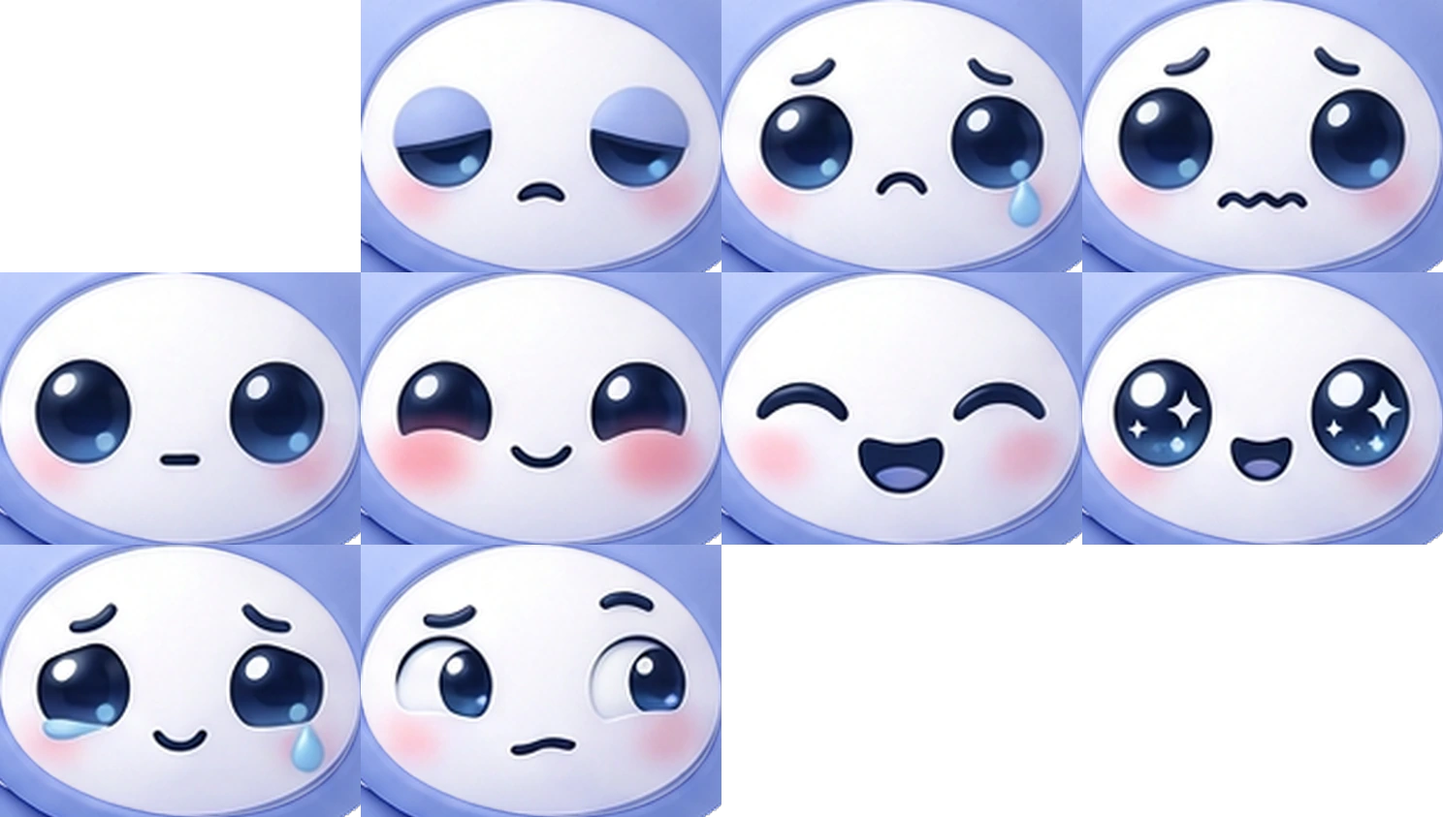
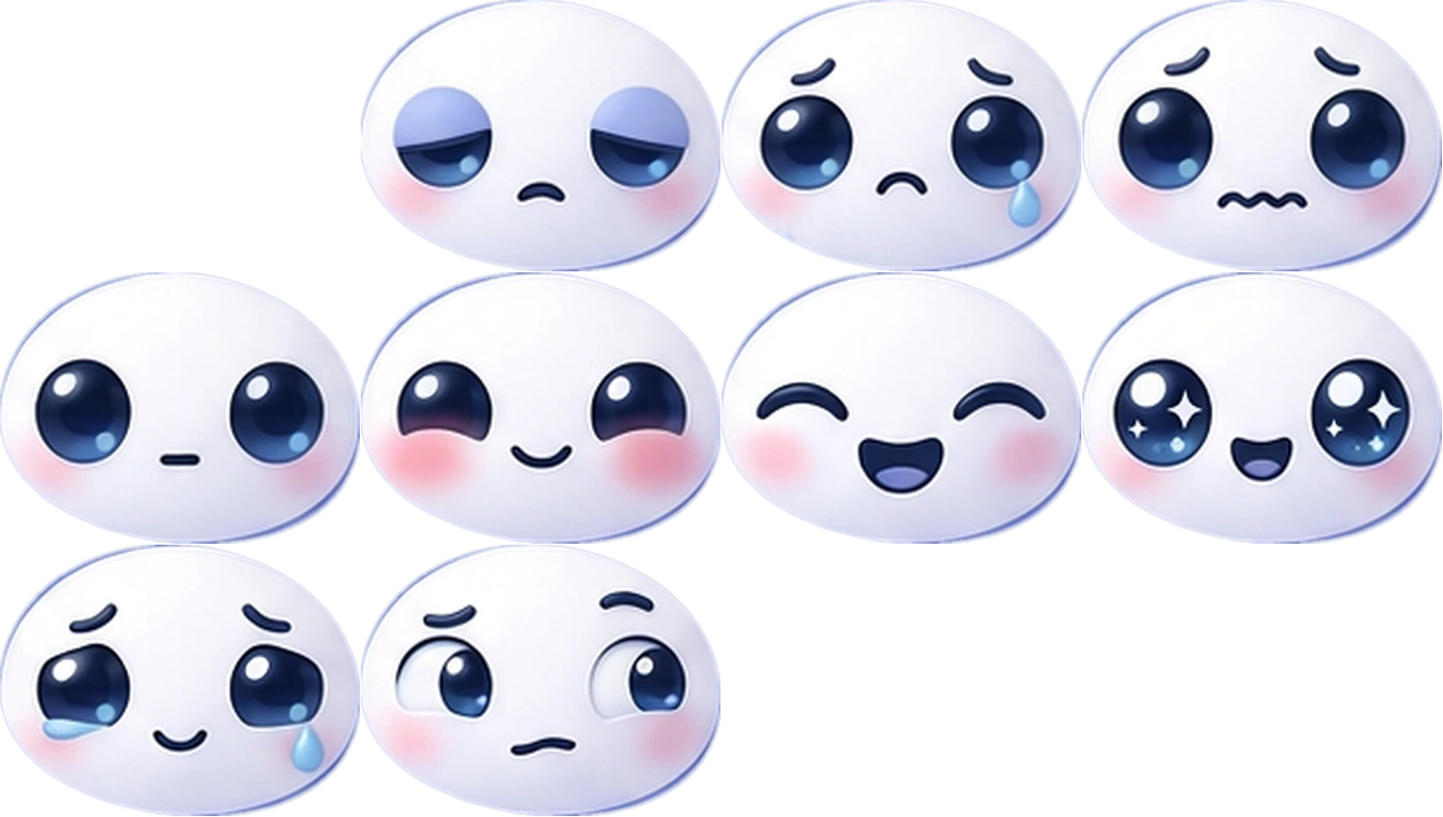
oval face cut + custom Опора notes + chat alternative replies
- hero face: bake elliptical alpha in build-mascot-moods.py, CSS ellipse clip so face never leaks outside hood
- Опора block (affirm/crisis): add practice_notes textarea for own variant, persisted locally, wired to chat context
- chat: expand hints to 6, add TIPS, make chatReply return 2-3 alternative answers per intent (randomized)

diff --git a/app/js/app.js b/app/js/app.js
@@ -85,6 +85,7 @@ const defaultState = {
   mood_entries: [],
   tasks: {},
   picked: {},                // примеры из практик, которые человек отметил своими: "practiceId:extrasKey" → [тексты]
+  practice_notes: {},        // v28: свой вариант ответа для практик Опоры (affirm, crisis) — текст, который держит
   game: {
     total_points: 0,
     alt_count: 0,
@@ -102,6 +103,7 @@ const state = Object.assign({}, defaultState, persisted, {
   mood_entries: Array.isArray(persisted.mood_entries) ? persisted.mood_entries : defaultState.mood_entries,
   tasks: Object.assign({}, defaultState.tasks, persisted.tasks || {}),
   picked: Object.assign({}, defaultState.picked, persisted.picked || {}),
+  practice_notes: Object.assign({}, defaultState.practice_notes, persisted.practice_notes || {}),
   game: Object.assign({}, defaultState.game, persisted.game || {}, {
     scales: Object.assign({}, defaultState.game.scales, persisted.game?.scales || {}),
     badges: Object.assign({}, defaultState.game.badges, persisted.game?.badges || {})
@@ -1148,6 +1150,40 @@ function screenPractice(id) {
   scr.append(el('ol', { class: 'steps' }, p.steps.map(s => el('li', {}, s))));
   // примеры из p.extras — сразу под шагами: шаги на них ссылаются («примеры ниже»)
   for (const card of practiceExamples(p)) scr.append(card);
+  // v28 · блок «Опора»: где нужно вписать фразу-опору или антикризисный план,
+  // даём поле для своего варианта ответа (сохраняется локально, только у тебя).
+  if (p.id === 'affirm' || p.id === 'crisis') {
+    const isAffirm = p.id === 'affirm';
+    const noteKey = p.id;
+    const title = isAffirm ? 'Своя фраза — как хочется именно тебе' : 'Свой план — своими словами';
+    const hint = isAffirm
+      ? 'Можно взять фразу из примеров выше или придумать свою. Сохранится только у тебя — можно поставить на заставку или сказать себе в трудный момент.'
+      : 'Заполни своими словами — этот текст останется у тебя. Можно коротко, как заметка себе в будущее.';
+    const placeholder = isAffirm
+      ? 'Моя фраза-опора — напиши своими словами, например: «Я справляюсь, шаг за шагом»'
+      : 'Мои ранние признаки шторма:\n· \n\nЧто помогает мне самому(ой) — 3 вещи:\n· \n\nК кому обратиться (имя, как связаться) и фраза-ключ «мне плохо, побудь рядом»:\n· \n\nЧто важно услышать / чего не говорить:\n· \n\nГде лежит план, кроме телефона:\n· ';
+    const ta = el('textarea', {
+      class: isAffirm ? 'mood-note-input' : 'task-input',
+      rows: isAffirm ? 3 : 7,
+      maxlength: isAffirm ? 200 : 1200,
+      placeholder,
+      'aria-label': title,
+      id: `practice-note-${p.id}`
+    });
+    ta.value = state.practice_notes[noteKey] || '';
+    const status = el('p', { class: 'mins', id: `practice-note-status-${p.id}` }, state.practice_notes[noteKey] ? 'Сохранено у тебя на устройстве. Можно менять когда угодно.' : 'Свой вариант не обязателен — заполни, если откликается.');
+    const saveBtn = el('button', { class: 'btn', style: 'margin-top:12px' }, state.practice_notes[noteKey] ? 'Сохранить изменения' : 'Сохранить свой вариант');
+    const clearBtn = el('button', { class: 'btn ghost', style: 'margin-top:8px' }, 'Очистить');
+    saveBtn.addEventListener('click', () => {
+      const text = ta.value.trim();
+      state.practice_notes[noteKey] = text;
+      try { save(); haptic('success'); toast(text ? 'Сохранено — твой вариант на месте.' : 'Очищено.'); status.textContent = text ? 'Сохранено у тебя на устройстве. Можно менять когда угодно.' : 'Свой вариант очищен.'; saveBtn.textContent = text ? 'Сохранить изменения' : 'Сохранить свой вариант'; } catch (e) { toast('Не получилось сохранить — проверь память.'); }
+    });
+    clearBtn.addEventListener('click', () => { ta.value = ''; ta.focus(); haptic('light'); status.textContent = 'Сотри и нажми «Сохранить», чтобы очистить.'; });
+    const card = el('div', { class: 'card soft', style: 'border-style:dashed' });
+    card.append(el('p', { class: 'cap' }, title), el('p', { class: 'mins', style: 'margin:0 0 8px' }, hint), ta, status, saveBtn, clearBtn);
+    scr.append(card);
+  }
   scr.append(el('p', { class: 'mins' }, `≈ ${p.minutes} мин · за практику даются очки и рост шкал`));
 
   const altBox = el('div', { class: 'hidden' });
@@ -1211,13 +1247,16 @@ function markDone(p, isAlt) {
 }
 
 /* ---------- чат поддержки ---------- */
-const CHAT_HINTS = ['Мне тяжело', 'Мне тревожно', 'Напомни, кто я', 'Дай совет на сейчас'];
+const CHAT_HINTS = ['Мне тяжело', 'Мне тревожно', 'Напомни, кто я', 'Дай совет на сейчас', 'Хочу паузу', 'Побудь рядом'];
 const CHAT_TIPS = [
   { text: 'Вдох на 4, выдох на 6. Три раза. Длинный выдох говорит телу: можно расслабиться.' },
   { text: 'Назови пять вещей, которые видишь, четыре — которые слышишь, три — которые чувствуешь кожей. Это заземление.' },
   { text: 'Одна маленькая задача на ближайшие пять минут. Не «разобраться со всем», а одно действие.' },
   { text: 'Холодная вода на запястья или лицо — быстрый способ вернуть тело в «здесь».' },
-  { text: 'Если можно — приглуши свет и звук на пару минут. Меньше входящего — легче внутри.' }
+  { text: 'Если можно — приглуши свет и звук на пару минут. Меньше входящего — легче внутри.' },
+  { text: 'Сожми кулаки на 5 секунд, отпусти. Повтори 3 раза — тело отпускает напряжение вместе с руками.' },
+  { text: 'Поставь таймер на 3 минуты и просто наблюдай за дыханием. Не меняй его, просто замечай.' },
+  { text: 'Напиши на бумаге 3 вещи, которые уже сделал(а) сегодня. Даже маленькие — они считаются.' }
 ];
 const clipText = (s, n = 200) => { s = String(s).replace(/\s+/g, ' ').trim(); return s.length > n ? s.slice(0, n - 1) + '…' : s; };
 
@@ -1232,12 +1271,17 @@ function buildChatContext() {
     title: t.title, emoji: t.emoji, text: (state.tasks[t.id].text || '').trim()
   }));
   const byId = (id) => (state.tasks[id] && state.tasks[id].text || '').trim();
+  // v28: антикризисный план и фраза-опора могут жить в практике «Опора» как свой вариант
+  const crisisPractice = (state.practice_notes?.crisis || '').trim();
+  const affirmPractice = (state.practice_notes?.affirm || '').trim();
+  const crisisFromTask = byId('crisis_plan');
+  const affirmFromTask = byId('anchors');  // якорей может не быть, используем фразу-опору как дополнение
   const last = moodEntries()[0];
   const lvl = levelInfo();
   return {
     name: TG_MODE ? tg.initDataUnsafe.user.first_name : state.web_user?.name || null,
     mastered, filled,
-    whoami: byId('who_am_i'), anchors: byId('anchors'), crisis: byId('crisis_plan'),
+    whoami: byId('who_am_i'), anchors: affirmPractice || byId('anchors'), crisis: crisisFromTask || crisisPractice,
     streak: streakCount(), level: lvl.level,
     moodNow: last ? MOODS[last.value] : null,
     moodCount: moodEntriesCount()
@@ -1248,6 +1292,7 @@ function chatReply(text) {
   const ctx = buildChatContext();
   const t = (text || '').toLowerCase();
   const has = (...words) => words.some(w => t.includes(w));
+  const rnd = (arr) => arr[Math.floor(Math.random() * arr.length)];
   const name = ctx.name ? `, ${ctx.name}` : '';
   let reply;
   if (has('кто я', 'напомни', 'какой я', 'какая я', 'забыл', 'забыла', 'потерял', 'потеряла', 'кто ты')) {
@@ -1256,24 +1301,71 @@ function chatReply(text) {
       if (ctx.whoami) parts.push(`Ты писал(а) о себе: «${clipText(ctx.whoami)}»`);
       if (ctx.anchors) parts.push(`Твои якоря: «${clipText(ctx.anchors)}»`);
       if (ctx.mastered.length) parts.push(`Ты умеешь: ${ctx.mastered.slice(0, 4).join(' · ')}`);
-      reply = `Ты — не этот момент${name}. Ты — тот, кто держался ${ctx.streak} ${plural(ctx.streak, 'день', 'дня', 'дней')} подряд и дошёл до уровня ${ctx.level}.\n\n${parts.join('\n')}\n\nЕсли сейчас тяжело — это волна, а ты глубже любой волны. 💧`;
+      const base = parts.join('\n');
+      const variants = [
+        `Ты — не этот момент${name}. Ты — тот, кто держался ${ctx.streak} ${plural(ctx.streak, 'день', 'дня', 'дней')} подряд и дошёл до уровня ${ctx.level}.\n\n${base}\n\nЕсли сейчас тяжело — это волна, а ты глубже любой волны. 💧`,
+        `Помню тебя${name} — даже если сейчас кажется, что всё размыто.\n\n${base}\n\nТы уже проходил(а) трудные дни, и этот тоже можно пройти по шагу.`,
+        `Давай вспомним, кто ты${name}, твоими же словами:\n\n${base}\n\nДержи это рядом — это твоя опора, а не мои советы.`
+      ];
+      reply = rnd(variants);
     } else {
-      reply = `Пока тут мало записей${name}, но это поправимо. Заполни в профиле задания «Кто я, когда мне хорошо» и «Мои якоря» — и я буду напоминать тебе о тебе твоими же словами.`;
+      reply = rnd([
+        `Пока тут мало записей${name}, но это поправимо. Заполни в профиле задания «Кто я, когда мне хорошо» и «Мои якоря» — и я буду напоминать тебе о тебе твоими же словами.`,
+        `Хочется напомнить тебя тобой${name}, а записей ещё нет. Заполни «Кто я» и «Мои якоря» — и в следующий раз я отвечу твоими фразами.`,
+        `Я бы рада напомнить твоими словами${name}, но тетрадь пока пустая. Начни с одного предложения о себе — я сохраню его.`
+      ]);
     }
-  } else if (has('тяжело', 'тревож', 'страш', 'паник', 'плохо', 'накры', 'тошн', 'больно', 'не могу', 'срыв', 'ужас')) {
-    const crisis = ctx.crisis ? `\n\nТы сам(а) оставил(а) себе план на такой случай:\n«${clipText(ctx.crisis)}»` : '';
-    reply = `Слышу${name}. Давай по-маленькому, прямо сейчас:\n\n1. Выдох длиннее вдоха — три раза, медленно.\n2. Назови пять вещей, которые видишь. Ты здесь, а не там, где страшно.\n3. Одно действие на пять минут — и всё. Больше пока не надо.${crisis}\n\nЭто точка на пути, а не весь путь. Я рядом. 💧`;
+  } else if (has('тревож', 'страш', 'паник', 'трясет', 'накры', 'ужас', 'тревога')) {
+    const crisis = ctx.crisis ? `\n\nТвой план на такой случай:\n«${clipText(ctx.crisis)}»` : '';
+    reply = rnd([
+      `Тревога шумит громко${name}, но она — сигнал, а не приказ.\n\n1. Выдох на 6, вдох на 4 — три раза.\n2. Стопы на пол, ладонь на грудь — почувствуй опору.\n3. Одно действие на 5 минут, не больше.${crisis}\n\nЯ рядом. 💧`,
+      `Слышу тревогу${name}. Давай заземлимся:\n\n• 5 вещей видишь • 4 слышишь • 3 чувствуешь кожей\n• Вода на запястья или свежий воздух\n• Одно маленькое «сейчас» вместо «всё сразу».${crisis}`,
+      `Когда страшно, тело спешит вперёд времени${name}.\n\nПопробуй: выдох длиннее вдоха, взглядом найди один спокойный угол в комнате, скажи себе «я здесь».${crisis}\n\nШаг за шагом.`
+    ]);
+  } else if (has('тяжело', 'грустн', 'печаль', 'тоск', 'плохо', 'тошн', 'больно', 'не могу', 'срыв')) {
+    const crisis = ctx.crisis ? `\n\nТы оставил(а) себе подсказку:\n«${clipText(ctx.crisis)}»` : '';
+    reply = rnd([
+      `Слышу${name}. Давай по-маленькому, прямо сейчас:\n\n1. Выдох длиннее вдоха — три раза, медленно.\n2. Назови пять вещей, которые видишь. Ты здесь.\n3. Одно действие на пять минут — и всё.${crisis}\n\nЭто точка на пути, а не весь путь.`,
+      `Тяжело — понимаю${name}. Не нужно решать всё сразу.\n\nЧто поможет на ближайшие 5 минут? Глоток воды, тёплый плед, одно сообщение «побудь рядом»?${crisis}\n\nЯ тут. 💧`,
+      `Спасибо, что сказал(а)${name}. Тяжёлые чувства — не ты целиком.\n\nПопробуй: вдох — замечаю, выдох — отпускаю чуть-чуть. Три раза.${crisis}\n\nМожно просто побыть.`
+    ]);
   } else if (has('совет', 'что делать', 'помог', 'подскаж', 'не знаю', 'как быть', 'как справ')) {
     const tip = CHAT_TIPS[Math.floor(Math.random() * CHAT_TIPS.length)];
-    reply = `Совет на сейчас: ${tip.text}\n\nОдин вдох уже считается. Если хочешь глубже — загляни в «Навыки».`;
-  } else if (has('устал', 'устала', 'вымотан', 'сил нет', 'выгор', 'спать', 'отдох', 'утом')) {
-    reply = `Усталость — это сигнал, а не слабость${name}. Тебе можно замедлиться.\n\nСегодня выбери одно маленькое «нет» и одно маленькое «можно отдохнуть». Меньше, чем кажется нужным, — уже достаточно.`;
+    reply = rnd([
+      `Совет на сейчас: ${tip.text}\n\nОдин вдох уже считается. Если хочешь глубже — загляни в «Навыки».`,
+      `Маленькая опора на сейчас: ${tip.text}\n\nНе нужно делать идеально — достаточно попробовать.`,
+      `Попробуем это: ${tip.text}\n\nЕсли не откликается — скажи «ещё совет», дам другой вариант.`
+    ]);
+  } else if (has('устал', 'устала', 'вымотан', 'сил нет', 'выгор', 'спать', 'отдох', 'утом', 'пауза', 'перерыв', 'хочу паузу')) {
+    reply = rnd([
+      `Усталость — это сигнал, а не слабость${name}. Тебе можно замедлиться.\n\nСегодня выбери одно маленькое «нет» и одно маленькое «можно отдохнуть». Меньше, чем кажется нужным, — уже достаточно.`,
+      `Слышу усталость${name}. Тело просит паузу.\n\nПопробуй: приглуши свет/звук на 3 минуты, вода, три медленных выдоха. Без цели — просто передышка.`,
+      `Можно отдохнуть${name}, даже если список не закрыт.\n\nВыбери один самый мягкий шаг: прилечь, выйти на воздух, отложить на завтра. Ты имеешь право.`
+    ]);
+  } else if (has('побудь', 'рядом', 'одинок', 'одинока', 'не оставляй', 'обними')) {
+    reply = rnd([
+      `Я рядом${name}. Никуда не спешу.\n\nХочешь просто помолчим вместе минуту? Или расскажи, что сейчас вокруг тебя — я слушаю. 💧`,
+      `Тут я${name}. Можно ничего не делать — просто быть рядом.\n\nЕсли хочется тепла — обними подушку, укутайся. Я — на этой странице, пока нужна.`,
+      `Слышу, хочется рядом${name}. Я здесь.\n\nДавай подышим вместе: вдох на 4, выдох на 6 — три раза. Я считаю с тобой.`
+    ]);
   } else if (has('спасибо', 'благодар')) {
-    reply = `Всегда рядом. Заходи, когда будет нужно — и когда будет хорошо, тоже. 💧`;
-  } else if (has('привет', 'здравств', 'добрый', 'хай')) {
-    reply = `Привет${name}! Я тут. Могу подсказать, как пережить трудный момент, напомнить, кто ты, или просто побыть рядом.`;
+    reply = rnd([
+      `Всегда рядом. Заходи, когда будет нужно — и когда будет хорошо, тоже. 💧`,
+      `Спасибо, что делишься${name}. Это уже шаг — замечать и говорить. Я тут.`,
+      `Рада быть рядом${name}. Заглядывай ещё — и в трудный, и в спокойный день.`
+    ]);
+  } else if (has('привет', 'здравств', 'добрый', 'хай', 'хелло')) {
+    reply = rnd([
+      `Привет${name}! Я тут. Могу подсказать, как пережить трудный момент, напомнить, кто ты, или просто побыть рядом.`,
+      `Привет${name} 💧 Чем могу поддержать сейчас — советом, паузой или напоминанием о тебе?`,
+      `Добро пожаловать${name}! Выбери кнопку ниже или напиши своими словами — я отвечу бережно.`
+    ]);
   } else {
-    reply = `Я слышу${name}. Я лучше всего умею: подсказать в трудный момент, напомнить, кто ты, и побыть рядом. Попробуй: «Мне тяжело», «Напомни, кто я» или «Дай совет».`;
+    reply = rnd([
+      `Я слышу${name}. Я лучше всего умею: подсказать в трудный момент, напомнить, кто ты, и побыть рядом. Попробуй: «Мне тяжело», «Напомни, кто я» или «Дай совет».`,
+      `Поняла${name}. Если не знаю, что ответить точно — могу предложить паузу, совет или побыть рядом. Что откликается?`,
+      `Спасибо, что пишешь${name}. Нажми любую подсказку ниже — у каждой теперь несколько вариантов ответа, или напиши по-своему.`
+    ]);
   }
   return reply;
 }

diff --git a/app/css/app.css b/app/css/app.css
@@ -883,12 +883,15 @@ html{color-scheme: light}
   animation:none; transform:none}
 .live-mascot-base{display:block; width:100%; height:100%; object-fit:contain}
 /* Слой лица: ячейка сетки hero-moods.webp ровно по контуру лица в позе
-   (геометрия — app/css/hero-moods.css). В ячейке только лицо, всё остальное
-   прозрачно, поэтому ни маска, ни clip-path не нужны: капюшон и плечи берутся
-   из hello.png и не могут сдвинуться или «поехать» вместе с выражением. */
+   (геометрия — app/css/hero-moods.css). В ячейке только овал лица прозрачен
+   за пределами эллипса, поэтому углы ячейки не накладывают прямоугольный шов
+   на капюшон. Дополнительно клипаем эллипсом в CSS, чтобы лицо никогда не
+   выходило за рамки — даже при сжатии WebP или масштабировании. */
 .live-mascot-face{position:absolute; display:none; pointer-events:none;
   background-image:url('../assets/mascot/hero-moods.webp?v=28'); background-repeat:no-repeat;
-  background-size:400% 300%; background-position:var(--face-x,0%) var(--face-y,0%)}
+  background-size:400% 300%; background-position:var(--face-x,0%) var(--face-y,0%);
+  border-radius:50%; -webkit-clip-path:ellipse(50% 50% at 50% 50%); clip-path:ellipse(50% 50% at 50% 50%);
+  overflow:hidden}
 .live-mascot.has-mood .live-mascot-face{display:block}
 .hero-mascot-wrap::before{animation:none; transform:none}
 /* Единственная анимация — проявление лица: выражение меняется мягко, без

diff --git a/scripts/build-mascot-moods.py b/scripts/build-mascot-moods.py
@@ -195,10 +195,22 @@ def main():
     # Ячейка ровно по области лица (1:1 с hello.png): в сетке нет ни тела, ни
     # лишних пикселей, а элемент на экране имеет тот же аспект, что и ячейка,
     # поэтому фон не растягивается. Единица запаса — прозрачная.
+    # ВАЖНО: лицо вырезано ОВАЛОМ, чтобы не выходить за рамки капюшона.
+    # Углы ячейки за пределами овала — прозрачны (а не цвет капюшона), поэтому
+    # прямоугольная сетка не накладывает прямоугольный шов на капюшон.
     cell_w, cell_h = fx1 - fx0 + 1, fy1 - fy0 + 1
+    rw, rh = rx1 - rx0, ry1 - ry0
+    # овальная прозрачность для ячейки: внутри овала — soft_alpha, за 1пкс запасом — 0
+    oval_cell_alpha = np.zeros((cell_h, cell_w), dtype=np.float32)
+    oval_cell_alpha[0:rh, 0:rw] = ref_alpha
+    oval_alpha_u8 = (oval_cell_alpha * 255).astype(np.uint8)
     atlas = Image.new("RGBA", (cell_w * COLS, cell_h * ROWS))   # ячейки 0, 10 и 11 пустые
     for i, frame in enumerate(frames[1:], start=1):
         cell = frame.crop((fx0, fy0, fx0 + cell_w, fy0 + cell_h))
+        arr = np.array(cell)
+        # вырезаем овал: углы ячейки прозрачны, край — мягкий (blur 1.5px из ref_alpha)
+        arr[..., 3] = oval_alpha_u8
+        cell = Image.fromarray(arr, "RGBA")
         atlas.paste(cell, ((i % COLS) * cell_w, (i // COLS) * cell_h))
     # Лоссless-сетка весит 660 КБ и утяжеляет главную; q92 втрое легче и
     # отличается только внутри мягкой тени лица (проверено сравнением кропа).
